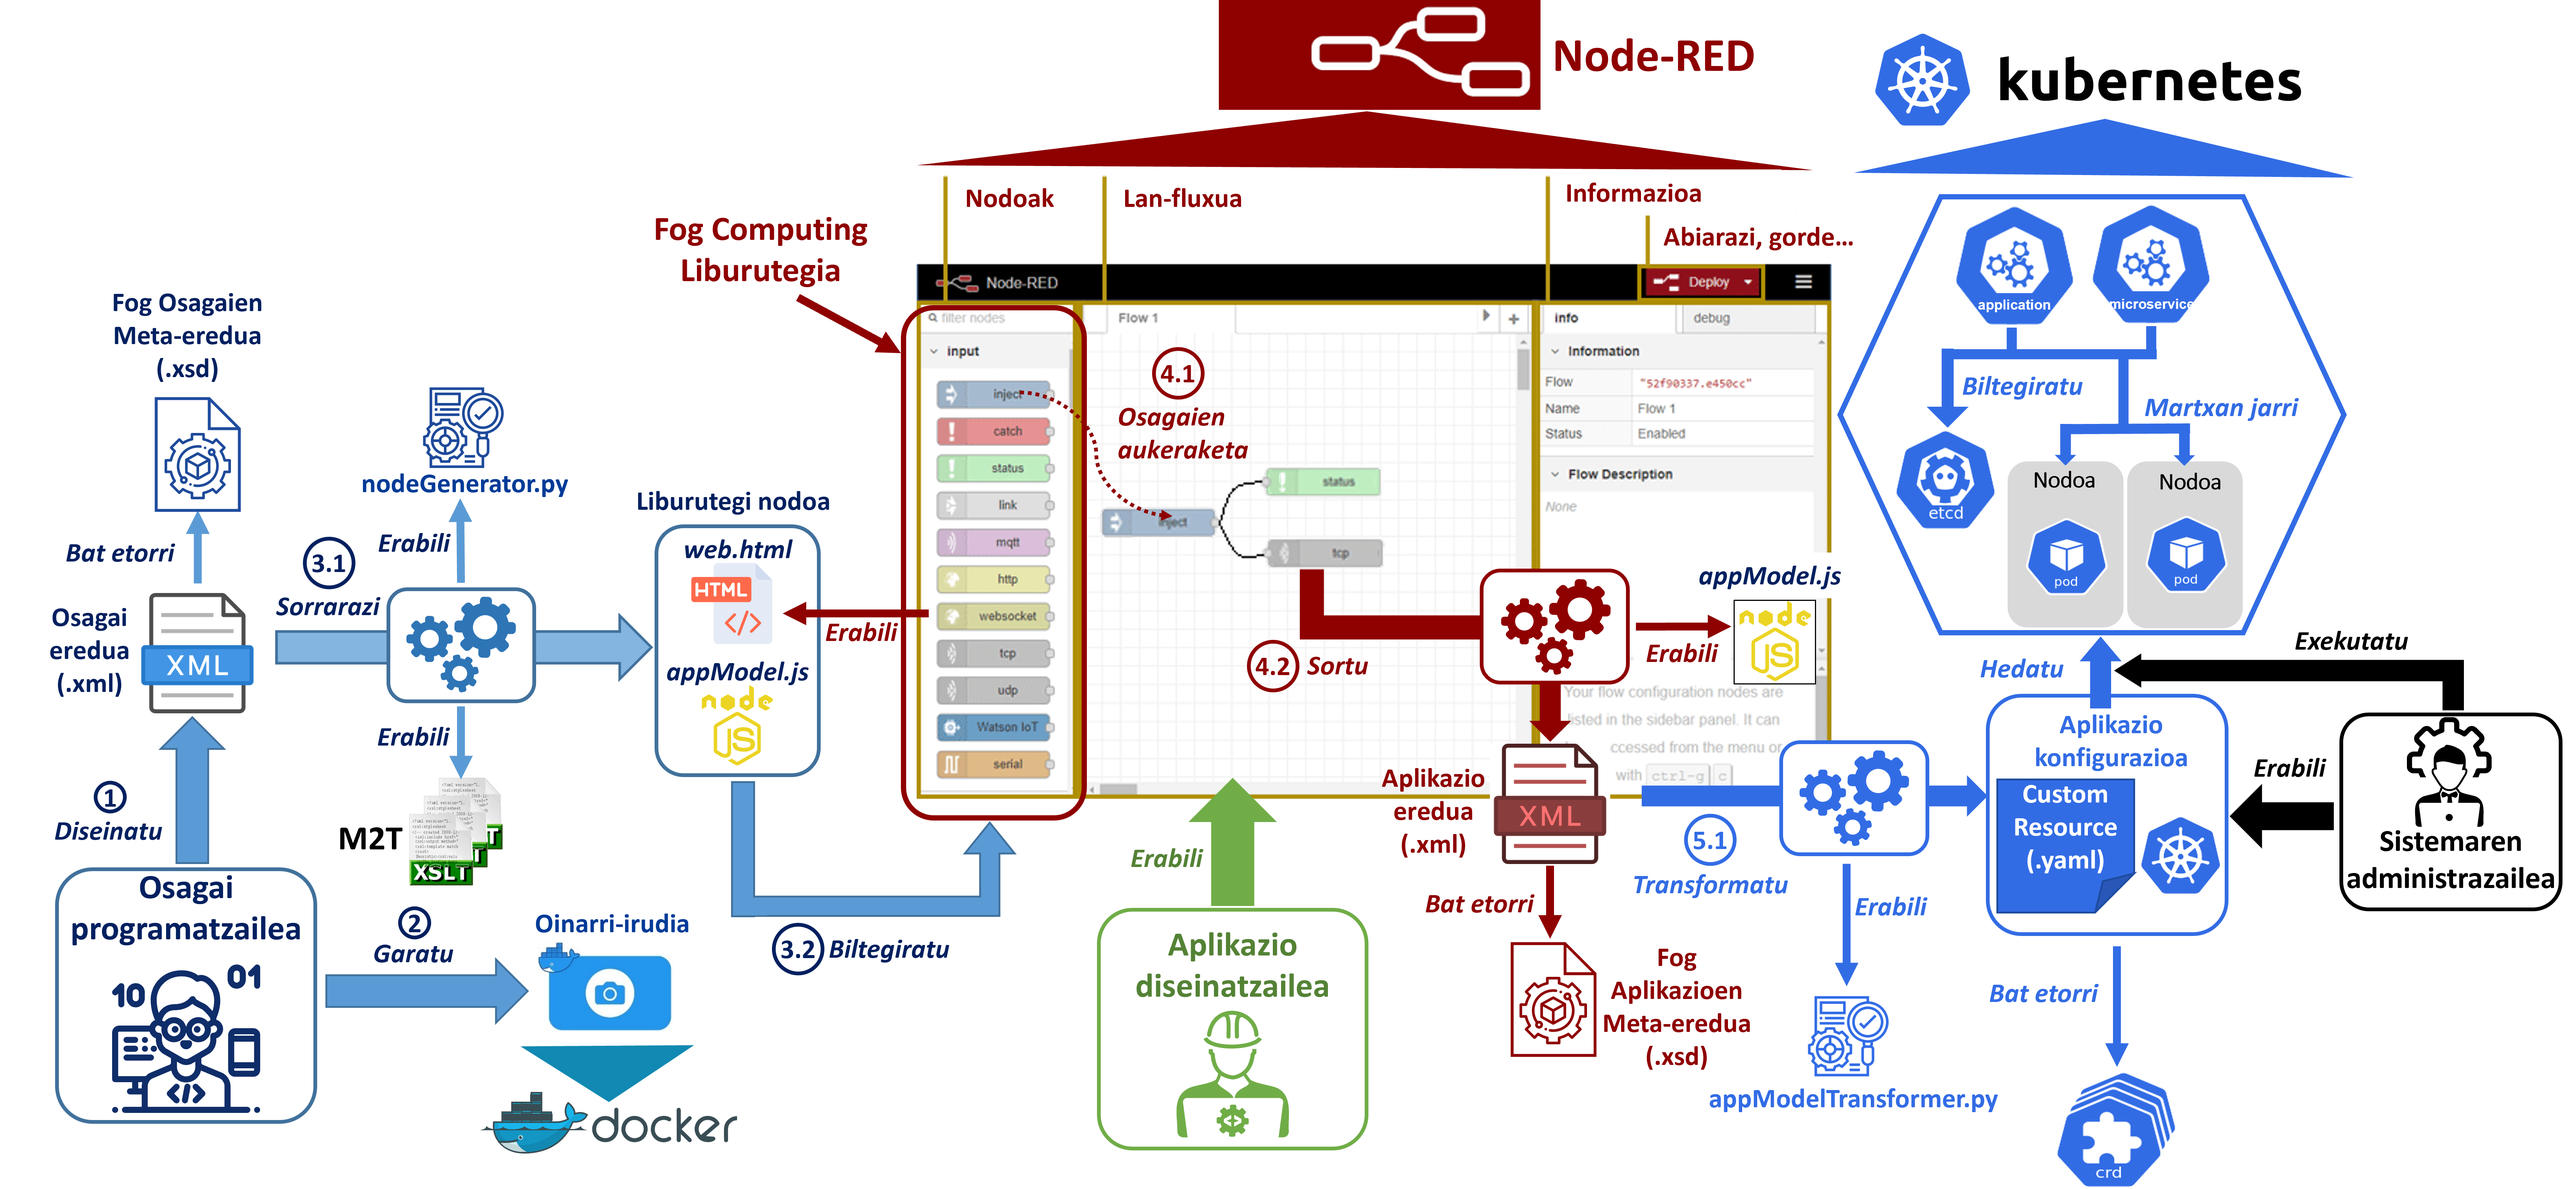
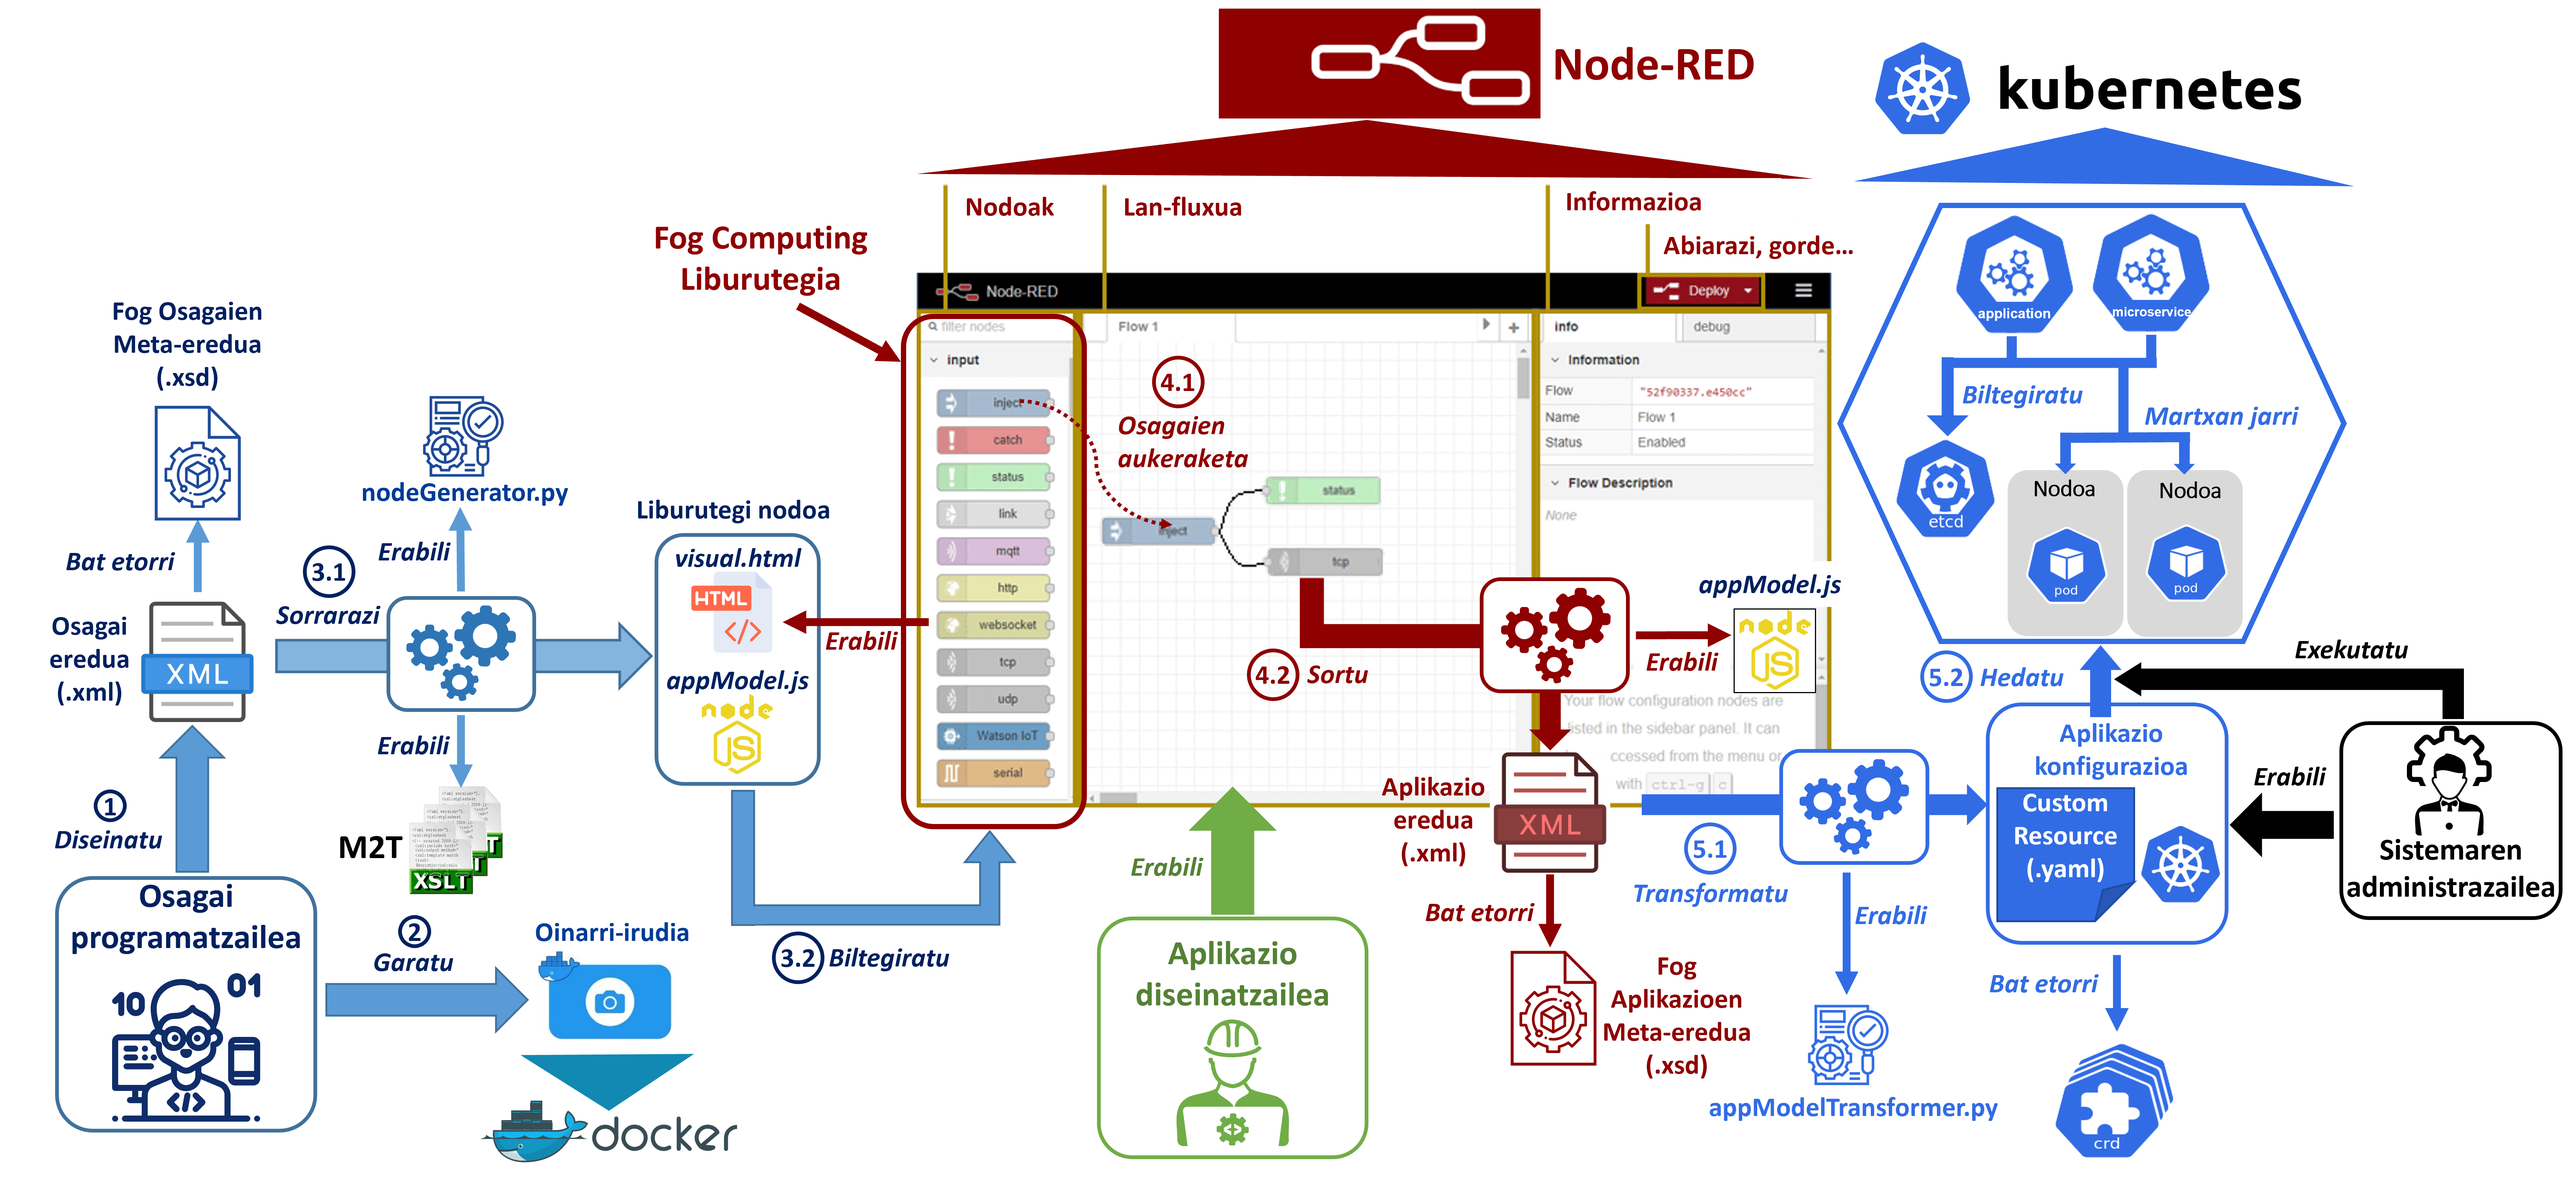
README nagusia bukatuta

Changed region(s): [[0.0, 0.0, 0.9967, 0.9946], [0.5918, 0.777, 0.8409, 1.0]]

diff --git a/README.md b/README.md
@@ -1,22 +1,20 @@
-# EkaitzHurtado_MAL
+# EkaitzHurtado-MAL
 
-Este es el repositorio para almacenar el código desarrollado para el Trabajo de Fin de Máster "Enfoque para la integración de aplicaciones OpenFog extendiendo Kubernetes" de Ekaitz Hurtado. Este trabajo se ha desarrollado en durante el máster en Ingeniería de Control, Automatización y Robótica en la Escuela de Ingeniería de Bilbao (UPV/EHU).
+Honakoa Ekaitz Hurtado ikaslearen "**Fog aplikazioen garapena eta operazioa bateratzeko eta automatizatzeko ereduetan oinarritutako ikuspegia**" izendatutako Master Amaierako Lanerako (MAL) garatutako kodea antolatzeko errepositoria da. Lan hau Bilboko Ingeniaritza Eskolan (UPV/EHU), eta, zehazki, Kontrol Ingeniaritza, Automatika eta Robotika masterrean garatu da.
 
-## A second-level heading
+## Antolakuntza
 
-**README** fitxategian idazteko laguntza: [esteka](https://docs.github.com/es/get-started/writing-on-github/getting-started-with-writing-and-formatting-on-github/basic-writing-and-formatting-syntax)
-Komando labur bat idazteko, adibidez, `git pull` horrela egin daiteke.
+Ataza honetan errepositoriaren antolakuntza aurkeztu du. Azter daitekeenez, bi karpeta nagusi daude: `Irudiak` eta `Kodea`. Lehenengoak errepositorioko _README_ fitxategietan zehar agertzen diren irudiak biltegiratzeko balio du. Bigarrenak, proiektu osoaren kodea barneratzen du. `Kodea` karpetaren antolaketa hurrengokoa da.
 
-```
-docker build -f Dockerfile -t ekhurtado/image:latest
-```
+- [IDE_plataforma](https://github.com/ekhurtado/EkaitzHurtado-MAL/tree/main/Kodea/IDE_plataforma): Honek lan honek proposatzen duen IDE plataformaren fitxategi guztiak barneratzen ditu. Hain zuzen ere, MAL honetan Node-RED plataforma hautatu da ardura honetarako. 
+- [Osagaiak](https://github.com/ekhurtado/EkaitzHurtado-MAL/tree/main/Kodea/Osagaiak): Karpeta honek Fog osagaietzako garatutako bailabideak barneratzen ditu.
+- [Software plataforma](https://github.com/ekhurtado/EkaitzHurtado-MAL/tree/main/Kodea/Software_plataforma): Karpeta honetan Fog aplikazioen inplementazio edo operaziorako software-plataformaren baliabideak biltegiratzen dira. Proiektu honek aukeratutako software-plataforma Kubernetes izan da. 
+- [Meta-ereduak](https://github.com/ekhurtado/EkaitzHurtado-MAL/tree/main/Kodea/meta_ereduak): MAL honek proposatzen dituen Fog osagai eta aplikazioentatzako meta-ereduak karpeta honetan aurkezten dira.
 
-### A third-level heading
+Aipatu beharra dago bakoitzak _README_ fitxategi bat duela, teknologia eta baliabideen erabilerarako jarraibideekin.
+
+## MALaren ikuspegia
+
+Ataza honetan Master Amaierako Lan honek proposatzen duen ikuspegiaren irudia aurkezten da, parte hartzen duten teknologiak barne.
 
 ![Soluzioaren teknologiak](Irudiak/Soluzioaren_deskribapena_teknologiak.png)
-
-
-```
-docker run -f Dockerfile -t ekhurtado/nodered:latest
-kubectl apply -f nire-app.yaml
-```

diff --git a/Kodea/IDE_plataforma/README.md b/Kodea/IDE_plataforma/README.md
@@ -1,3 +1,9 @@
+# IDE_plataforma
+
 Karpeta honek IDE plataformaren kode guztia barneratzen du. Aukeratutako IDEa Node-RED izanik, bertan zuzenean integra daitezkeen nodoen fitxategiak ere eskuragarri daude.
+
+Karpeta honen antolakuntza hurrengoa da:
+
+- [nodoak](https://github.com/ekhurtado/EkaitzHurtado-MAL/tree/main/Kodea/IDE_plataforma/nodoak): Node-RED plataforma
 
 Bestetik, karpeta honek nodo berriak sortzeko txantiloiak eskaintzen ditu. 
